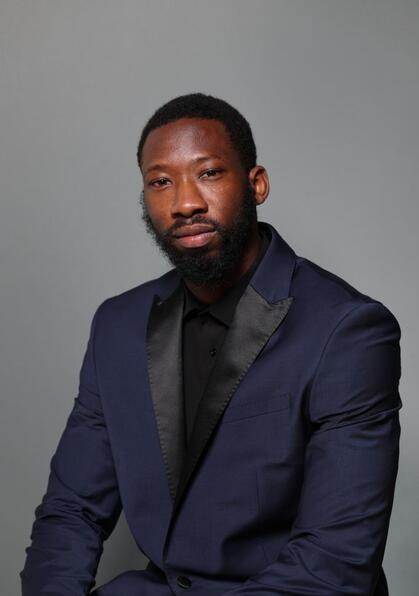
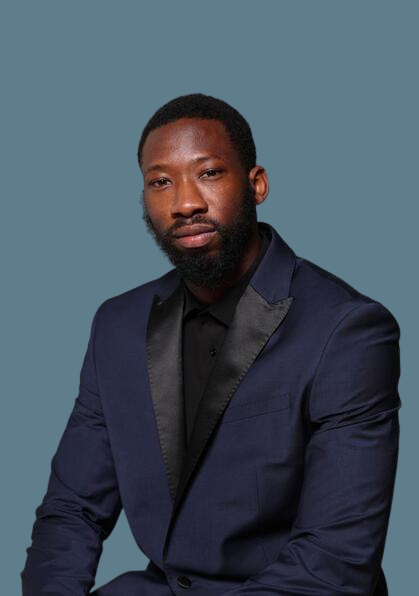
changed famoukes image

diff --git a/index.html b/index.html
@@ -502,7 +502,7 @@
           <div class="col-lg-3 col-md-6 d-flex align-items-stretch" data-aos="fade-up" data-aos-delay="100">
             <div class="member">
               <div class="member-img">
-                <img src="assets/img/team/team-b.png" class="img-fluid" alt="">
+                <img src="assets/img/team/team-b.jpeg" class="img-fluid" alt="">
                 <div class="social">
                   <a href="https://www.instagram.com/famouke/"><i class="bi bi-instagram"></i></a>
                   <a href="https://www.linkedin.com/in/ibrahim-famouke-doumbia/"><i class="bi bi-linkedin"></i></a>
